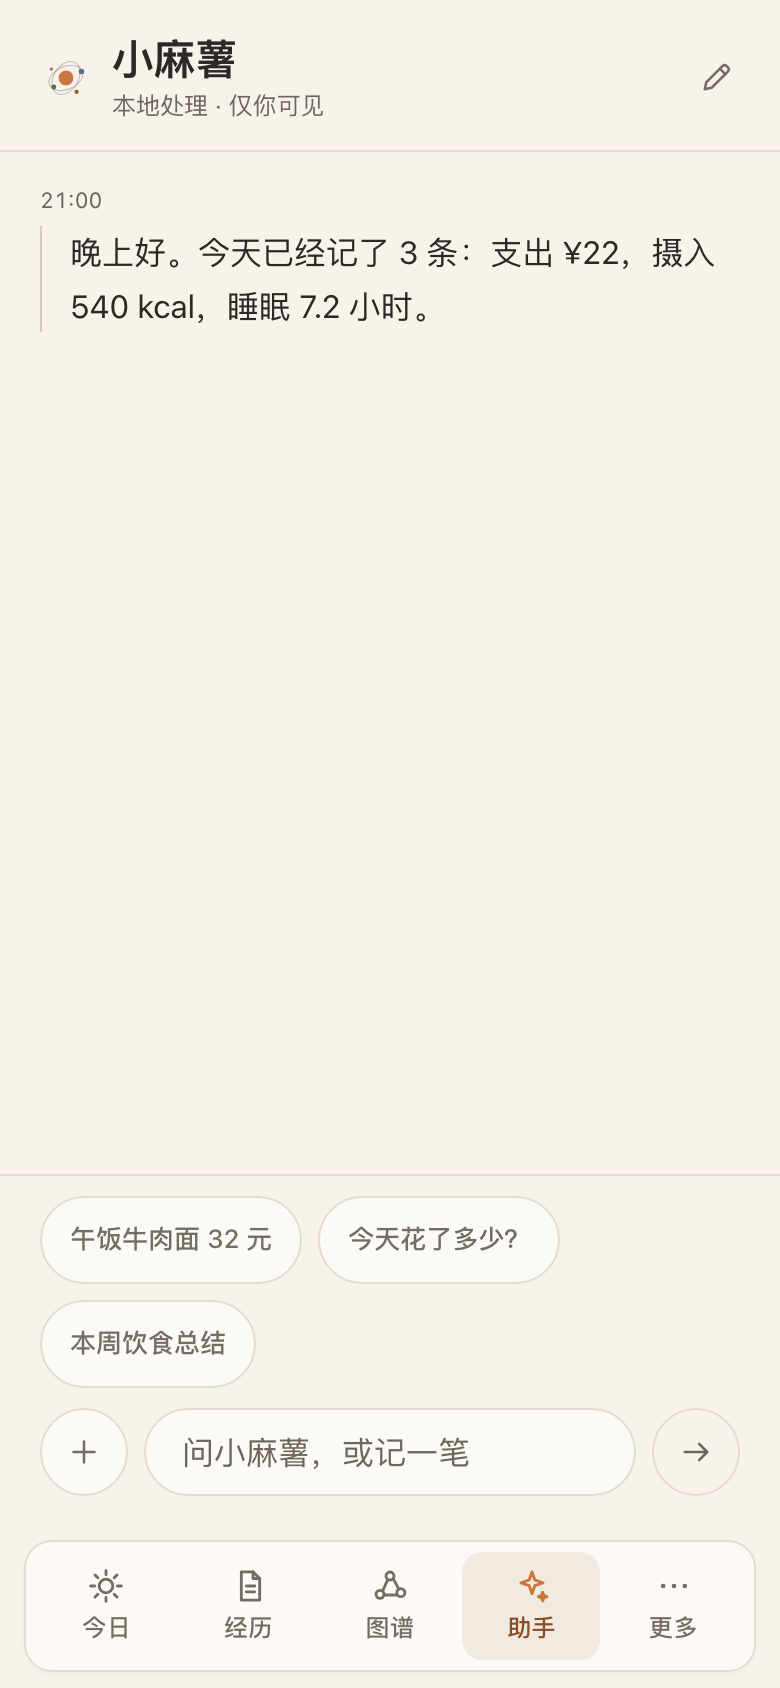
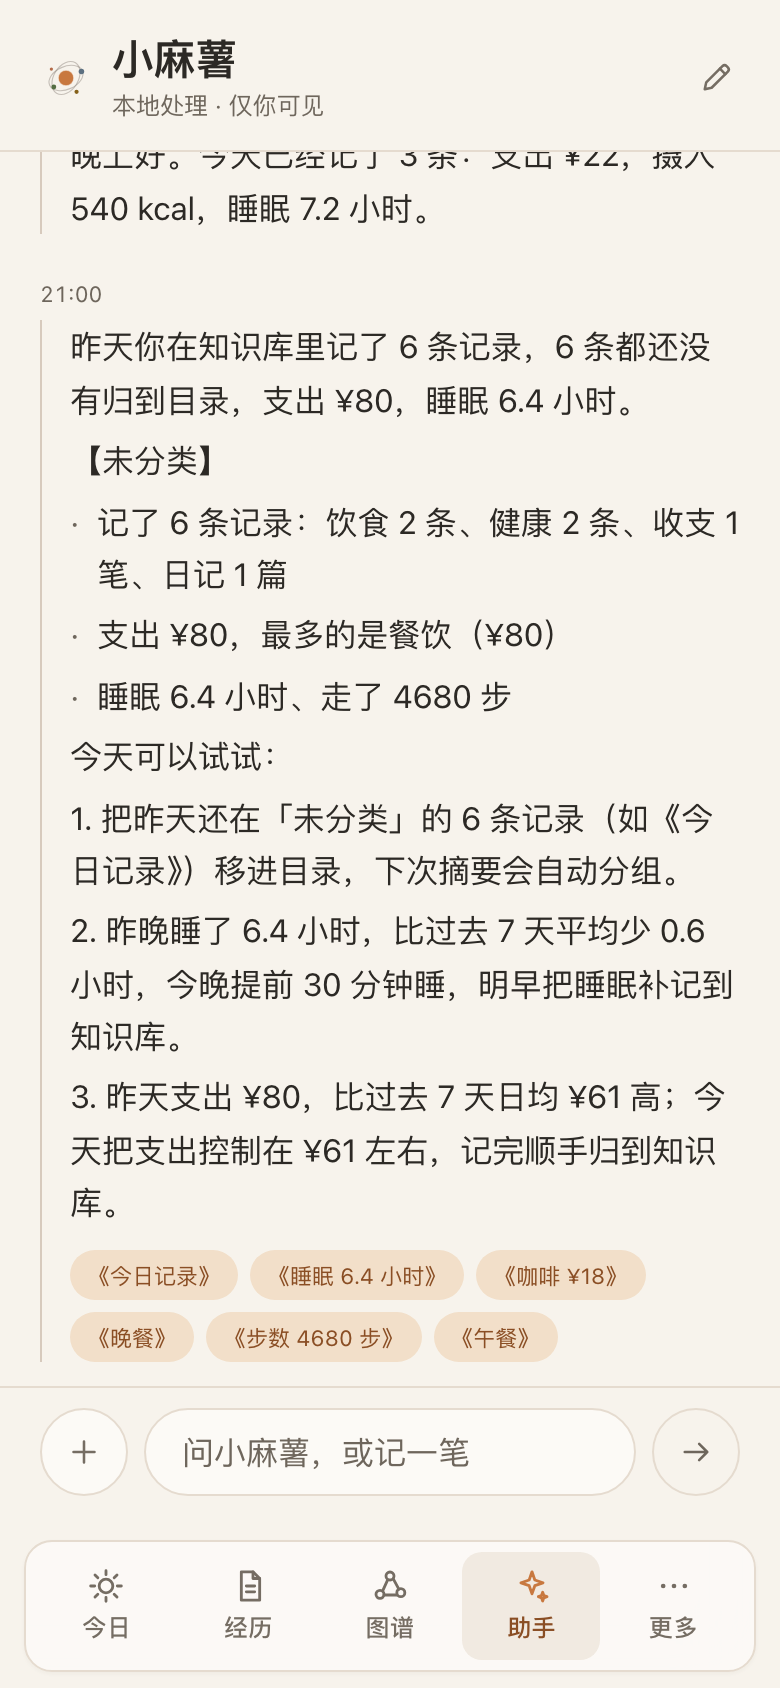
fix(v1.1): deep-linked digest message and teaser tap target
- AgentPanel appends the daily digest when it arrives after mount, so a cold
  deep link to #/agent still shows today's summary with source chips
- 先建目录 secondary CTA meets the 44px touch target
- screenshots refreshed after visual changes

diff --git a/src/components/AgentPanel.tsx b/src/components/AgentPanel.tsx
@@ -35,6 +35,30 @@ interface ChatMessage {
   sources?: { id: string; title: string }[];
 }
 
+function digestChatMessage(digest: DailyDigest, notes: Note[], id: number): ChatMessage {
+  const lines: string[] = [digest.summary];
+  for (const section of digest.sections) {
+    if (section.highlights.length === 0) continue;
+    lines.push('', `【${section.title}】`);
+    for (const highlight of section.highlights) lines.push(`· ${highlight}`);
+  }
+  if (digest.suggestions.length > 0) {
+    lines.push('', '今天可以试试：');
+    digest.suggestions.forEach((suggestion, index) => lines.push(`${index + 1}. ${suggestion}`));
+  }
+  const titleById = new Map(notes.map((note) => [note.id, note.title]));
+  return {
+    id,
+    role: 'bot',
+    text: lines.join('\n'),
+    at: Date.now(),
+    sources: digest.sourceIds
+      .map((sourceId) => ({ id: sourceId, title: titleById.get(sourceId) ?? '' }))
+      .filter((source) => source.title)
+      .slice(0, 8),
+  };
+}
+
 interface Fact {
   label: string;
   value: string;
@@ -124,32 +148,17 @@ export function AgentPanel({
   const [messages, setMessages] = useState<ChatMessage[]>(() => {
     const greeting = agentGreeting(notes);
     const initial: ChatMessage[] = [{ id: 0, role: 'bot', text: greeting.text, at: Date.now() }];
-    if (dailyDigest) {
-      const lines: string[] = [`${dailyDigest.summary}`];
-      for (const section of dailyDigest.sections) {
-        if (section.highlights.length === 0) continue;
-        lines.push('', `【${section.title}】`);
-        for (const highlight of section.highlights) lines.push(`· ${highlight}`);
-      }
-      if (dailyDigest.suggestions.length > 0) {
-        lines.push('', '今天可以试试：');
-        dailyDigest.suggestions.forEach((suggestion, index) => lines.push(`${index + 1}. ${suggestion}`));
-      }
-      const titleById = new Map(notes.map((note) => [note.id, note.title]));
-      initial.push({
-        id: idRef.current++,
-        role: 'bot',
-        text: lines.join('\n'),
-        at: Date.now(),
-        sources: dailyDigest.sourceIds
-          .map((id) => ({ id, title: titleById.get(id) ?? '' }))
-          .filter((source) => source.title)
-          .slice(0, 8),
-      });
-    }
+    if (dailyDigest) initial.push(digestChatMessage(dailyDigest, notes, idRef.current++));
     return initial;
   });
   const [savingId, setSavingId] = useState<number | null>(null);
+  const digestSeenRef = useRef<string | null>(dailyDigest?.dateKey ?? null);
+
+  useEffect(() => {
+    if (!dailyDigest || digestSeenRef.current === dailyDigest.dateKey) return;
+    digestSeenRef.current = dailyDigest.dateKey;
+    setMessages((current) => [...current, digestChatMessage(dailyDigest, notes, idRef.current++)]);
+  }, [dailyDigest, notes]);
 
   const appendBot = useCallback((text: string, suggestions?: string[]) => {
     setMessages((current) => [

diff --git a/src/styles/app.css b/src/styles/app.css
@@ -2626,3 +2626,5 @@ button.settings-row:active {
 }
 
 .graph-teaser-build { min-height: 32px; color: var(--accent-ink); font-size: var(--text-xs); font-weight: 500; }
+
+.graph-teaser-build { min-height: 44px; }
